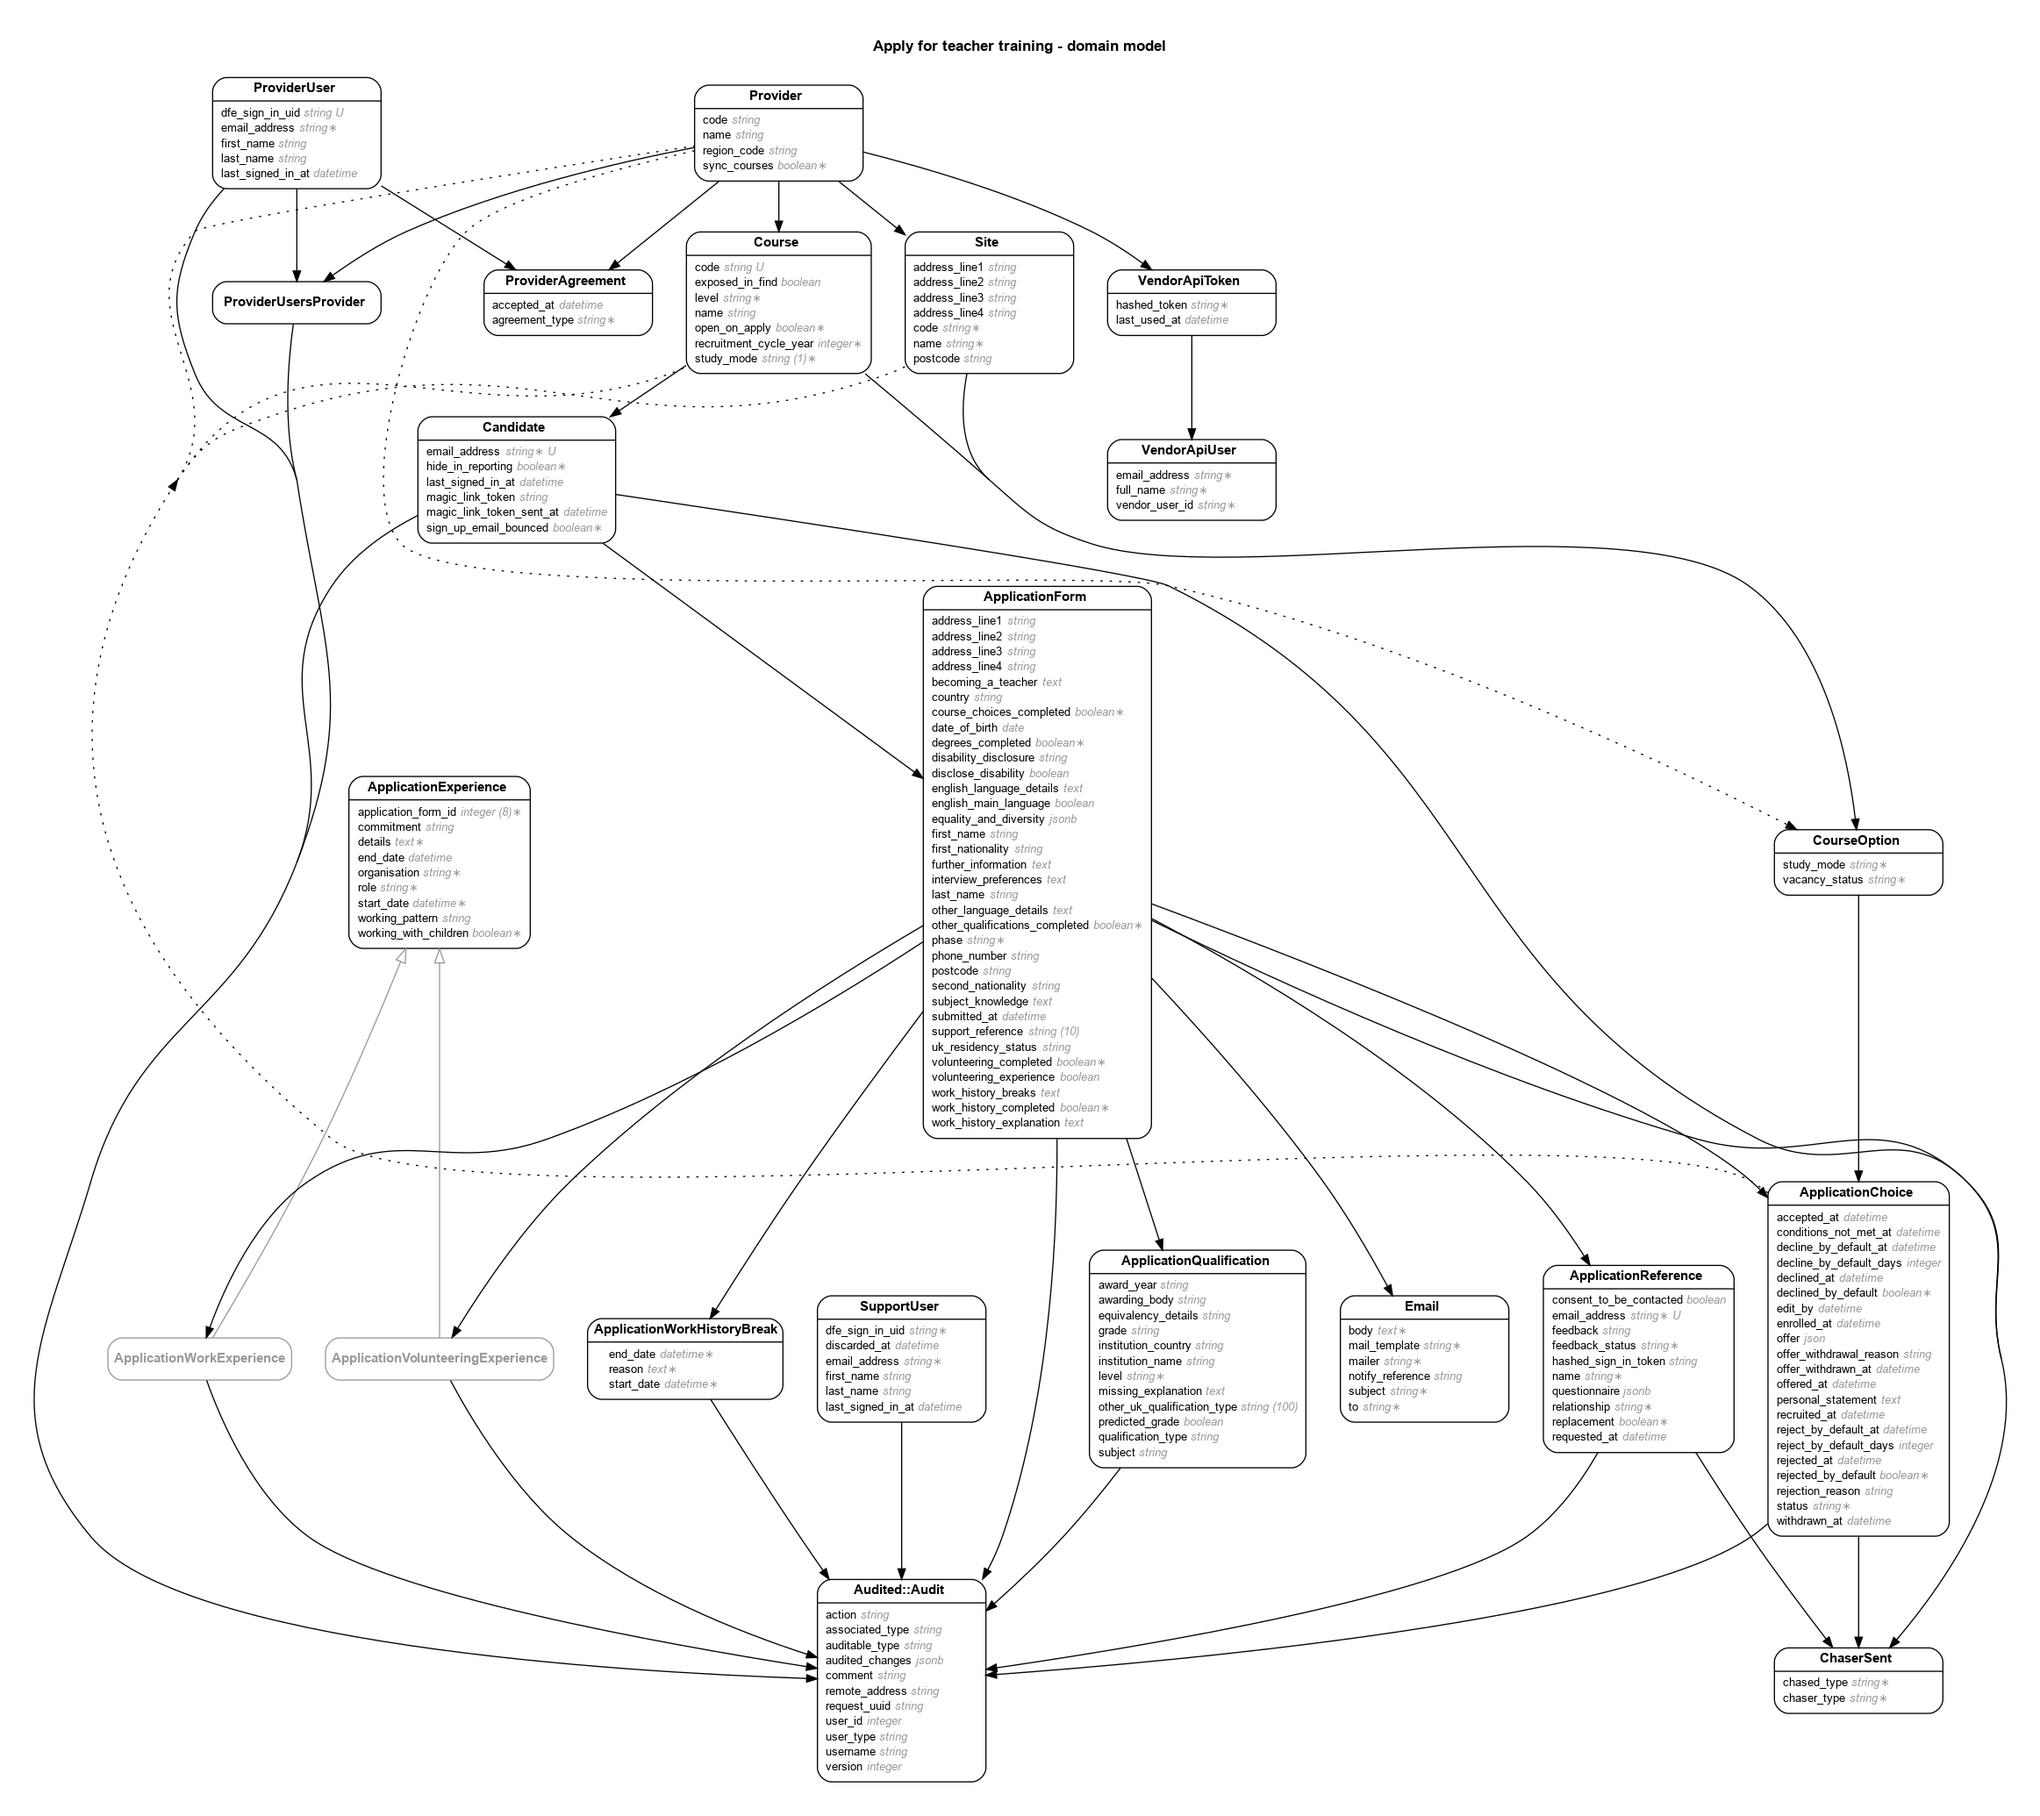
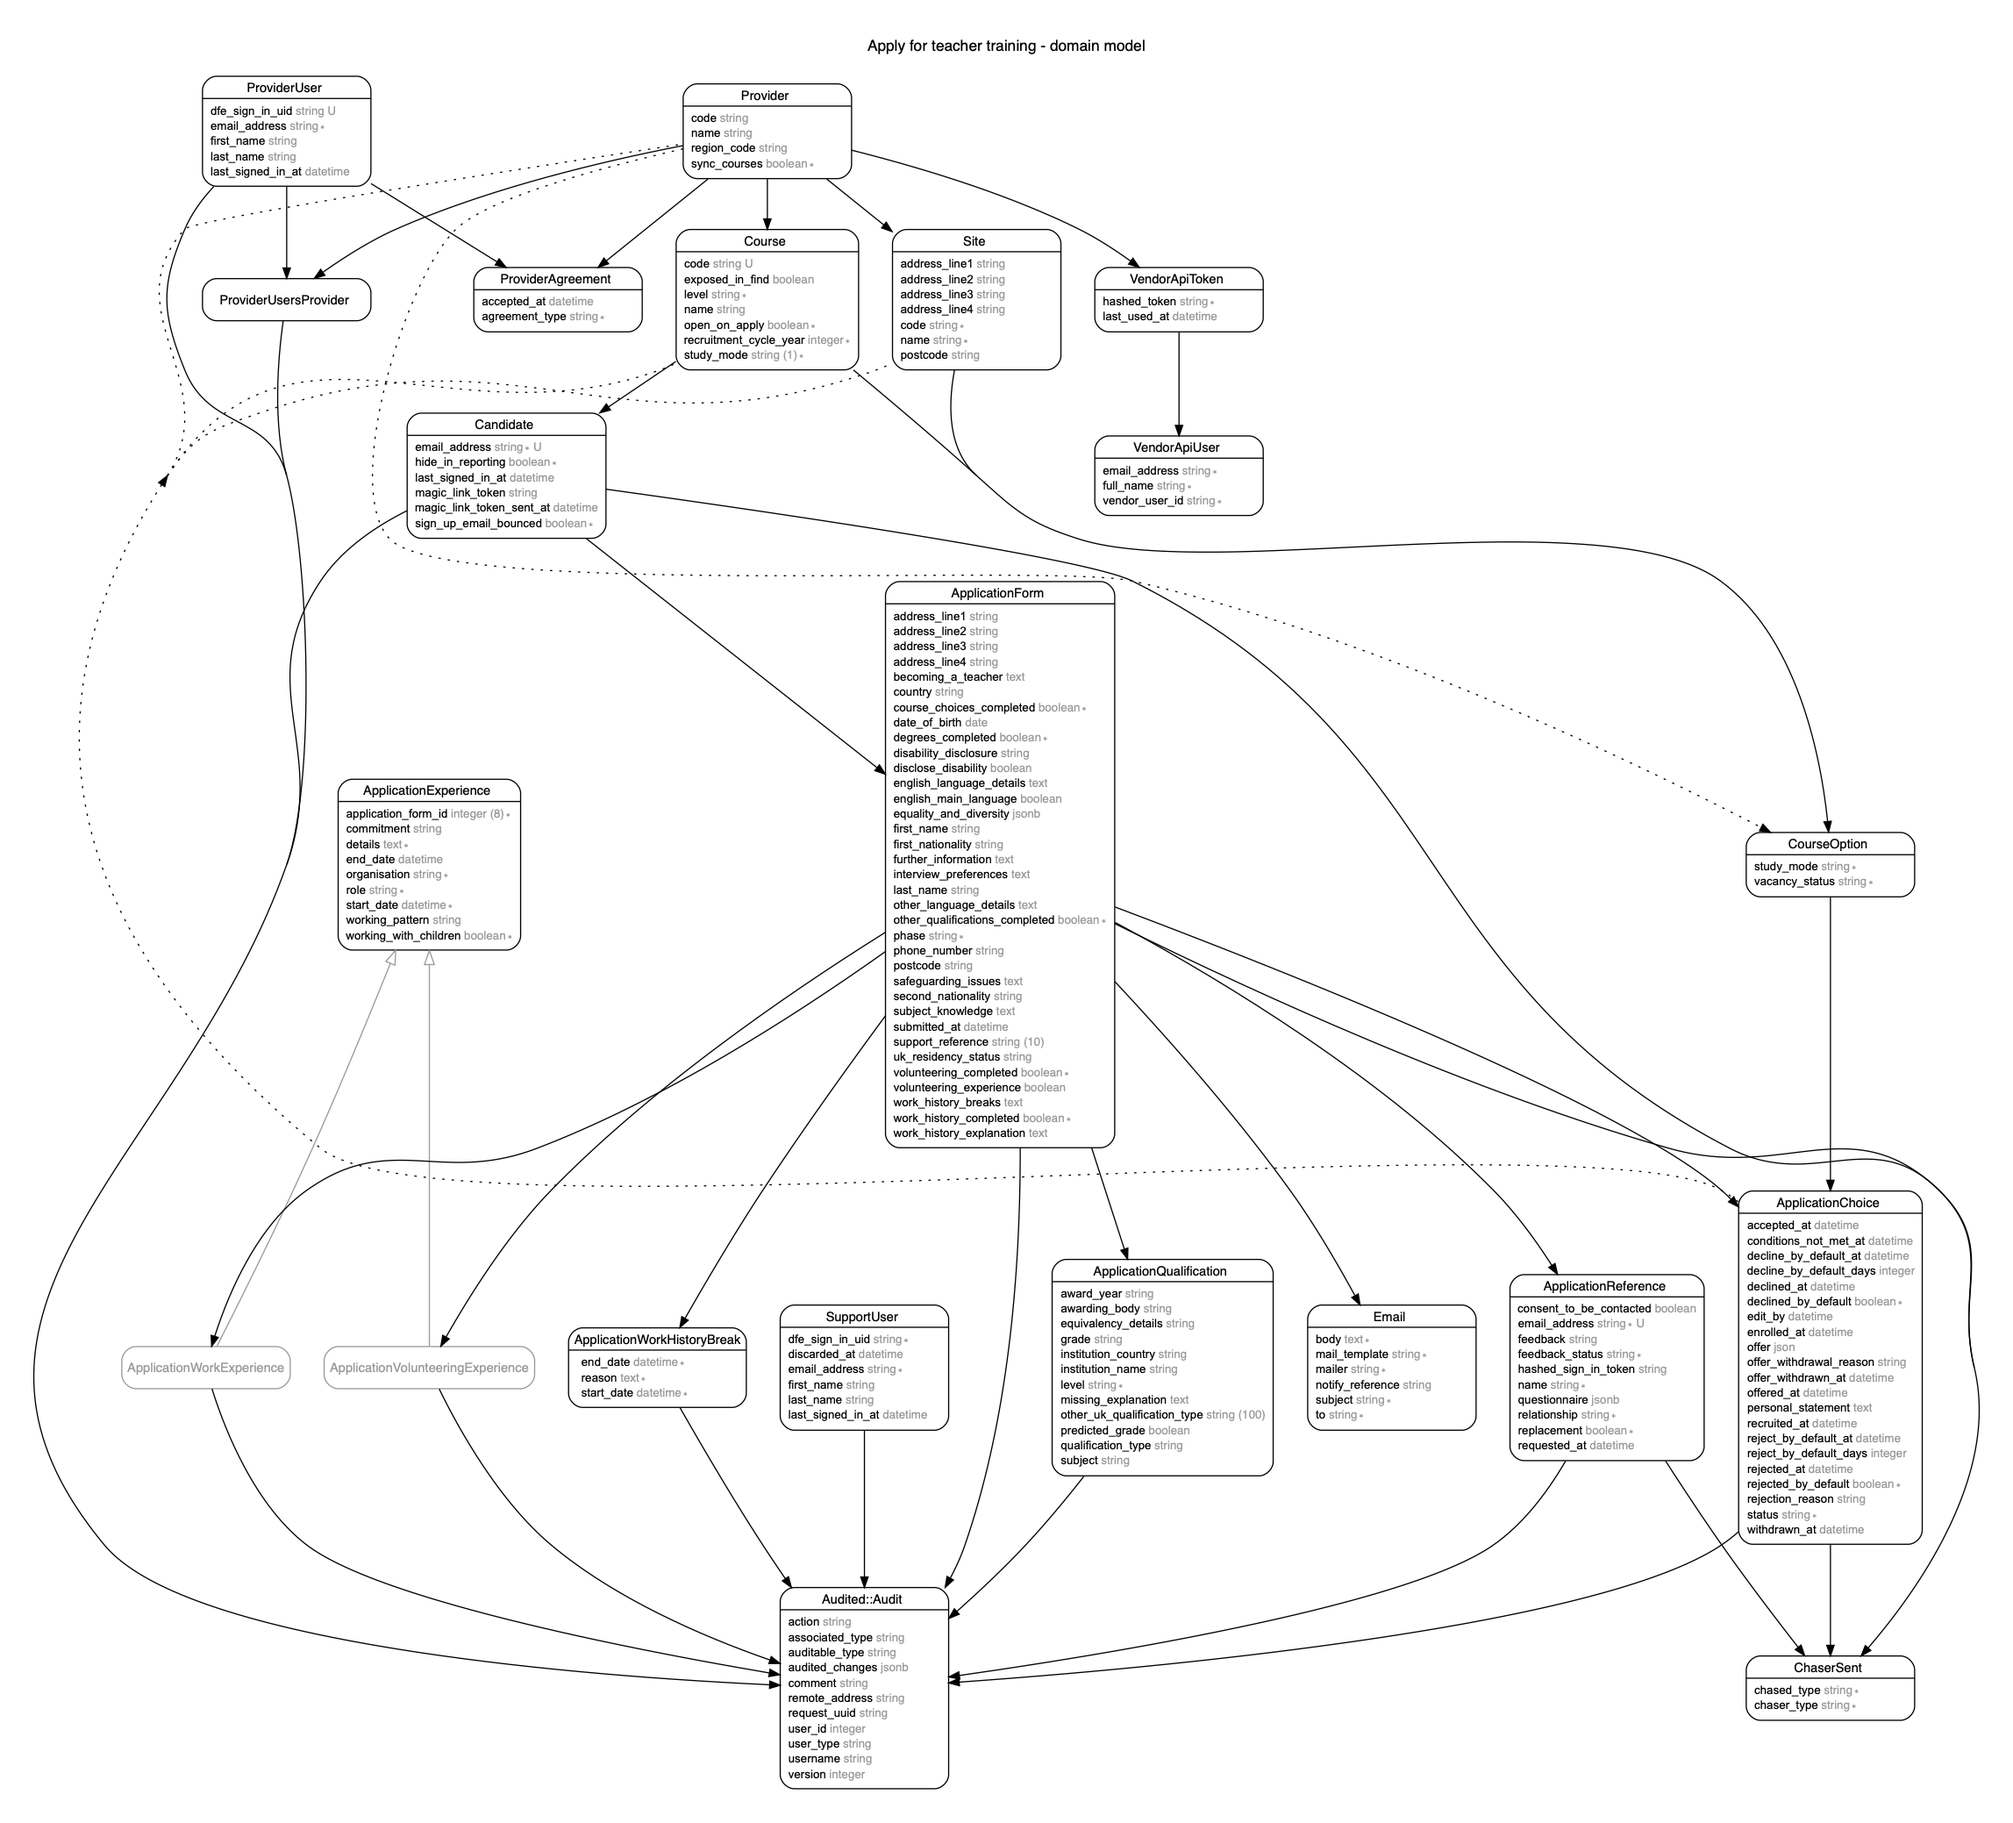
Add migration to add safeguarding issues to application form

diff --git a/db/schema.rb b/db/schema.rb
@@ -10,7 +10,7 @@
 #
 # It's strongly recommended that you check this file into your version control system.
 
-ActiveRecord::Schema.define(version: 2020_03_03_103444) do
+ActiveRecord::Schema.define(version: 2020_03_09_120113) do
 
   # These are extensions that must be enabled in order to support this database
   enable_extension "pgcrypto"
@@ -101,6 +101,7 @@ ActiveRecord::Schema.define(version: 2020_03_03_103444) do
     t.boolean "volunteering_experience"
     t.string "phase", default: "apply_1", null: false
     t.jsonb "equality_and_diversity"
+    t.text "safeguarding_issues"
     t.index ["candidate_id"], name: "index_application_forms_on_candidate_id"
   end
 

diff --git a/db/migrate/20200309120113_add_safeguarding_issues_to_application_form.rb b/db/migrate/20200309120113_add_safeguarding_issues_to_application_form.rb
@@ -1,0 +1,5 @@
+class AddSafeguardingIssuesToApplicationForm < ActiveRecord::Migration[6.0]
+  def change
+    add_column :application_forms, :safeguarding_issues, :text
+  end
+end
